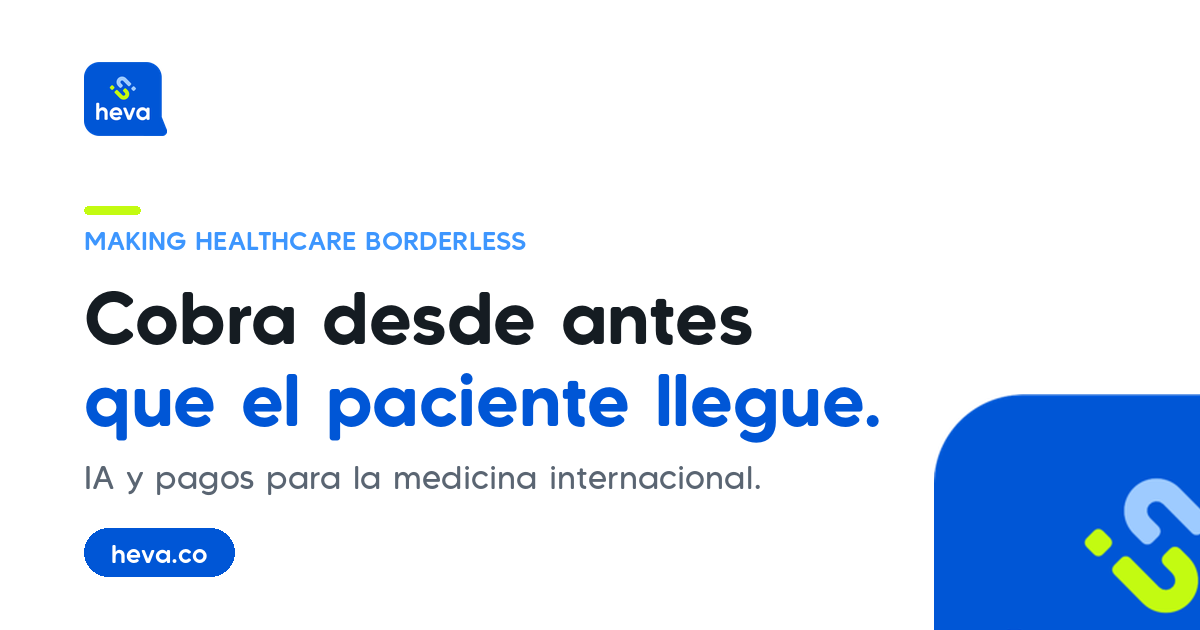
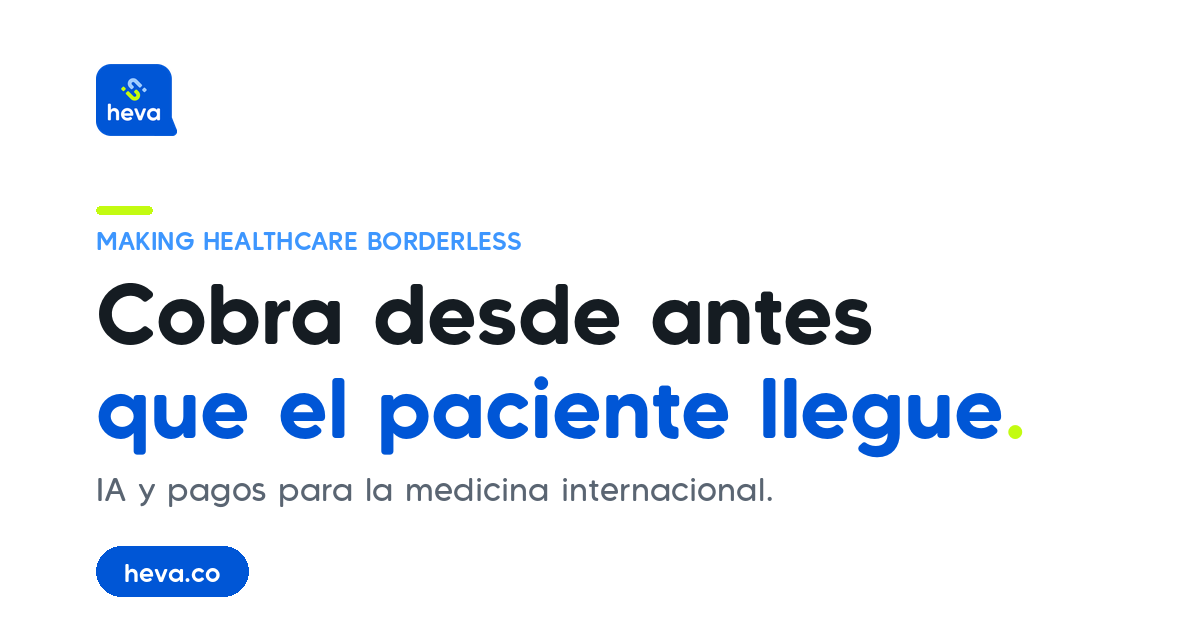
design(og): version tipografica limpia — sin submark recortado, punto final en lima como firma; cache-bust v3

diff --git a/index.html b/index.html
@@ -12,14 +12,14 @@
   <!-- Open Graph -->
   <meta property="og:title"       content="heva — Cobra desde antes que el paciente llegue">
   <meta property="og:description" content="Infraestructura de IA y pagos para la medicina internacional. Asistente 24/7, cobro global y gestión de tu clínica en un solo lugar.">
-  <meta property="og:image"       content="./og-cover.png?v=2">
+  <meta property="og:image"       content="./og-cover.png?v=3">
   <meta property="og:url"         content="https://heva.co">
   <meta property="og:type"        content="website">
   <meta property="og:locale"      content="es_MX">
   <meta name="twitter:card"       content="summary_large_image">
   <meta name="twitter:title"      content="heva — Cobra desde antes que el paciente llegue">
   <meta name="twitter:description" content="Infraestructura de IA y pagos para la medicina internacional.">
-  <meta name="twitter:image"      content="./og-cover.png?v=2">
+  <meta name="twitter:image"      content="./og-cover.png?v=3">
 
   <!-- PWA -->
   <link rel="manifest" href="./manifest.webmanifest">

diff --git a/asistente.html b/asistente.html
@@ -8,7 +8,7 @@
 
   <meta property="og:title"       content="heva AI — Tu clínica atiende 24/7">
   <meta property="og:description" content="Asistente IA que atiende a tus pacientes internacionales en su idioma, cotiza y agenda automáticamente.">
-  <meta property="og:image"       content="./og-cover.png?v=2">
+  <meta property="og:image"       content="./og-cover.png?v=3">
   <meta property="og:type"        content="website">
 
   <link rel="manifest"     href="./manifest.webmanifest">

diff --git a/chris.html b/chris.html
@@ -7,7 +7,7 @@
   <meta name="description"        content="Infraestructura de IA y pagos para la medicina internacional. Asistente 24/7, cobro global y gestión de tu clínica en un solo lugar.">
   <meta property="og:title"       content="heva — Cobra desde antes que el paciente llegue">
   <meta property="og:description" content="Infraestructura de IA y pagos para la medicina internacional. Asistente 24/7, cobro global y gestión de tu clínica en un solo lugar.">
-  <meta property="og:image"       content="./og-cover.png?v=2">
+  <meta property="og:image"       content="./og-cover.png?v=3">
   <meta property="og:type"        content="website">
   <meta name="robots" content="noindex">
   <link rel="icon" href="./Submark-Colors-Primary.svg" type="image/svg+xml">

diff --git a/edgar.html b/edgar.html
@@ -7,7 +7,7 @@
   <meta name="description"        content="Infraestructura de IA y pagos para la medicina internacional. Asistente 24/7, cobro global y gestión de tu clínica en un solo lugar.">
   <meta property="og:title"       content="heva — Cobra desde antes que el paciente llegue">
   <meta property="og:description" content="Infraestructura de IA y pagos para la medicina internacional. Asistente 24/7, cobro global y gestión de tu clínica en un solo lugar.">
-  <meta property="og:image"       content="./og-cover.png?v=2">
+  <meta property="og:image"       content="./og-cover.png?v=3">
   <meta property="og:type"        content="website">
   <meta name="robots" content="noindex">
   <link rel="icon" href="./Submark-Colors-Primary.svg" type="image/svg+xml">

diff --git a/eduardo.html b/eduardo.html
@@ -7,7 +7,7 @@
   <meta name="description"        content="Infraestructura de IA y pagos para la medicina internacional. Asistente 24/7, cobro global y gestión de tu clínica en un solo lugar.">
   <meta property="og:title"       content="heva — Cobra desde antes que el paciente llegue">
   <meta property="og:description" content="Infraestructura de IA y pagos para la medicina internacional. Asistente 24/7, cobro global y gestión de tu clínica en un solo lugar.">
-  <meta property="og:image"       content="./og-cover.png?v=2">
+  <meta property="og:image"       content="./og-cover.png?v=3">
   <meta property="og:type"        content="website">
   <meta name="robots" content="noindex">
   <link rel="icon" href="./Submark-Colors-Primary.svg" type="image/svg+xml">

diff --git a/financiamiento.html b/financiamiento.html
@@ -8,7 +8,7 @@
 
   <meta property="og:title"       content="heva — Financiamiento para pacientes de EE.UU.">
   <meta property="og:description" content="Más pacientes dicen sí cuando tienen opciones de pago. Tú cobras completo, el paciente paga a plazos.">
-  <meta property="og:image"       content="./og-cover.png?v=2">
+  <meta property="og:image"       content="./og-cover.png?v=3">
   <meta property="og:type"        content="website">
 
   <link rel="manifest"     href="./manifest.webmanifest">

diff --git a/plataforma.html b/plataforma.html
@@ -8,7 +8,7 @@
 
   <meta property="og:title"       content="heva Plataforma — Todo tu flujo en un solo lugar">
   <meta property="og:description" content="Inbox, cotizaciones, Practice, calendario y pagos. Una sola herramienta para operar tu clínica internacional.">
-  <meta property="og:image"       content="./og-cover.png?v=2">
+  <meta property="og:image"       content="./og-cover.png?v=3">
   <meta property="og:type"        content="website">
 
   <link rel="manifest"     href="./manifest.webmanifest">

diff --git a/wallet.html b/wallet.html
@@ -8,7 +8,7 @@
 
   <meta property="og:title"       content="heva Wallet — El primer banco digital para la medicina global">
   <meta property="og:description" content="Recibe pagos internacionales al instante. Retén tu valor en dólares. Respaldado por Bridge (empresa de Stripe).">
-  <meta property="og:image"       content="./og-cover.png?v=2">
+  <meta property="og:image"       content="./og-cover.png?v=3">
   <meta property="og:type"        content="website">
 
   <link rel="manifest"     href="./manifest.webmanifest">